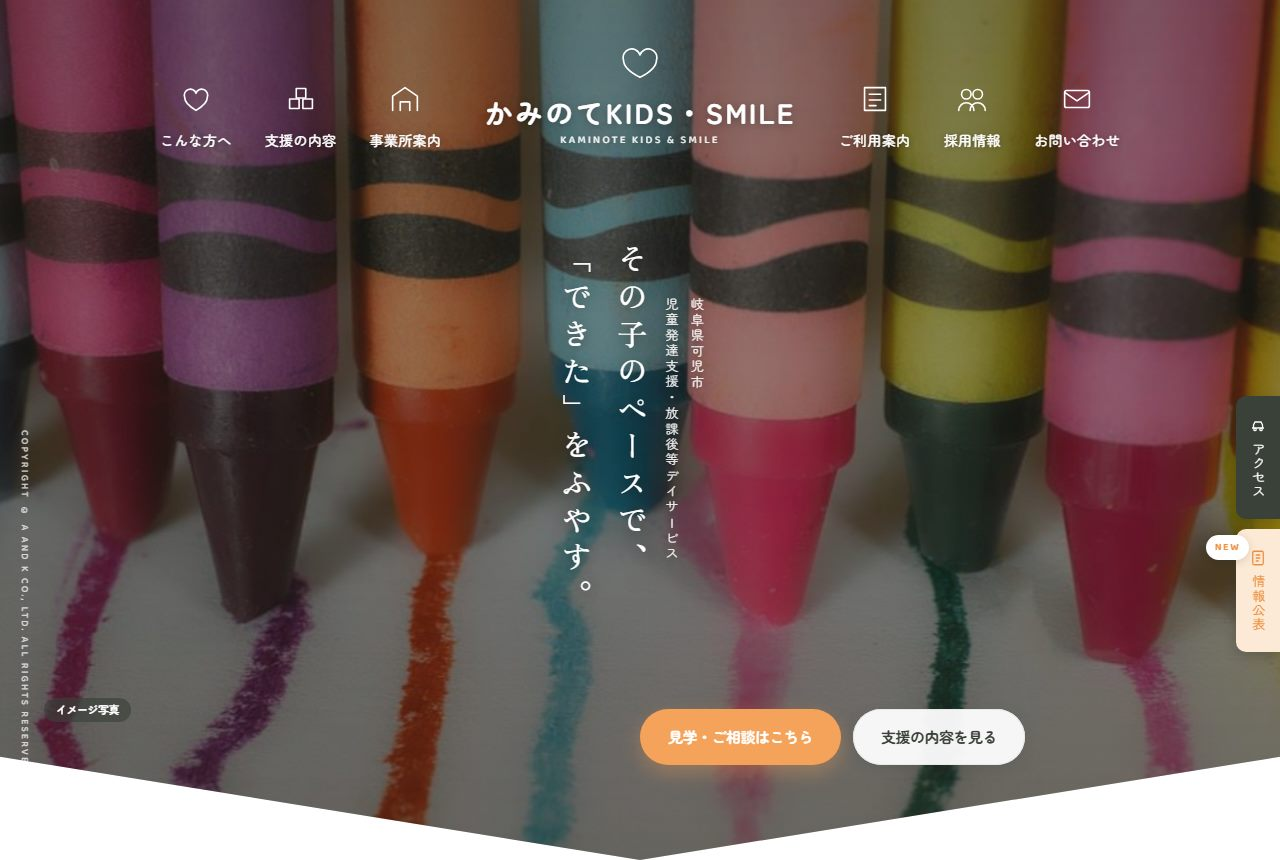
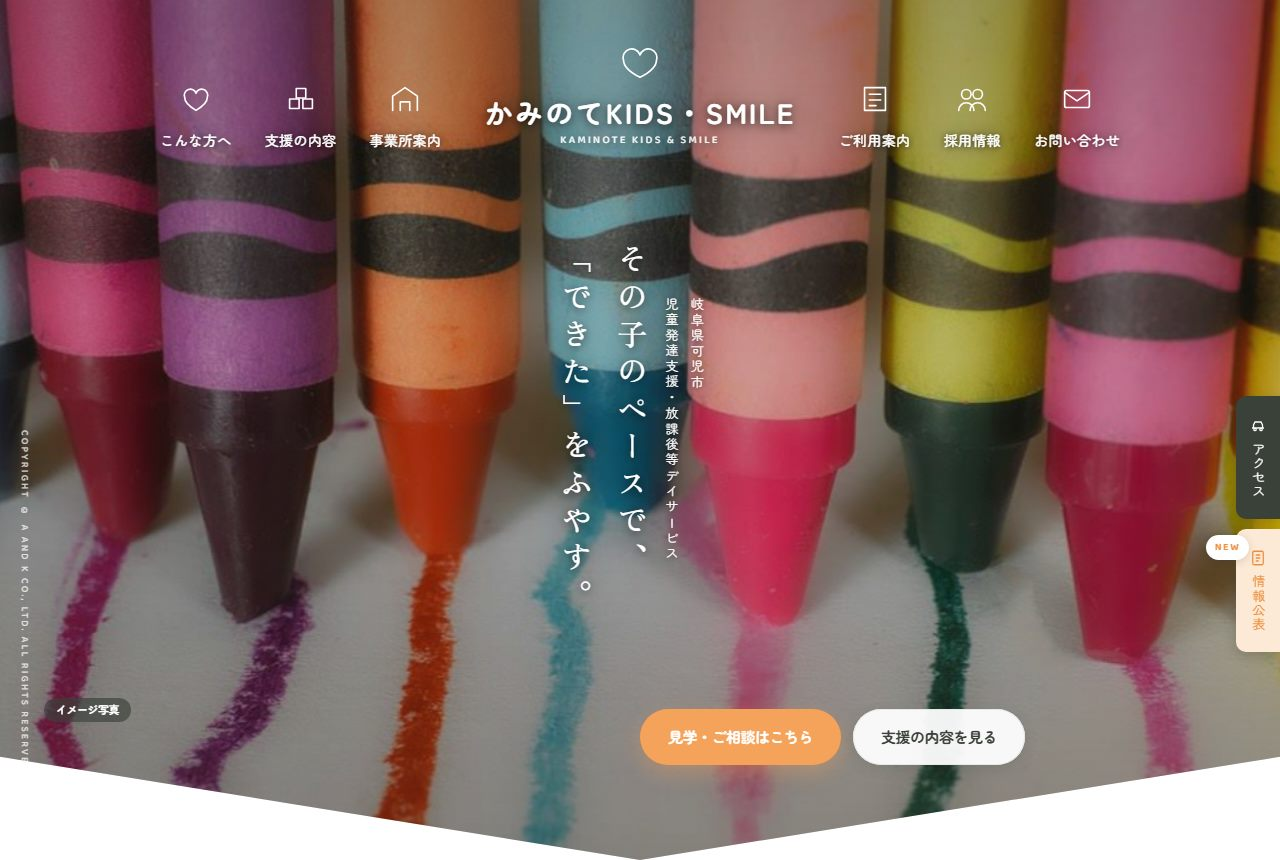
放課後等デイ案Cのキャプチャと説明を、明るくした状態に合わせる
かぶせを薄くして写真の色を残す作りになったので、
「深い色に沈め」を書き直し、キャプチャも撮り直した。

Claude-Session: https://claude.ai/code/session_019yv8kcPFY1QPYKKQptFxud

diff --git a/design.html b/design.html
@@ -670,7 +670,7 @@
         <a class="shot" href="https://k-matsumoto527.github.io/kaminote-day-design/plan-c.html" target="_blank" rel="noopener">
           <img src="img/preview-day-c.jpg" alt="放課後等デイサイト トップページ デザイン案C" width="1280" height="860" loading="lazy">
         </a>
-        <p class="mock-note">白いヘッダーを置かず、開いた瞬間は<strong>写真だけが画面いっぱい</strong>に広がる案です。事業所名を中央に、メニューを左右に振り分けました。写真は<strong>大きく寄せて</strong>深い色に沈め、事業所の言葉は白い文字の<strong>縦書き</strong>で置いています。<strong>3案のなかでいちばん写真が強く出て、落ち着いた雰囲気</strong>になります。保育園サイトの案Cと対になる作りです。そのぶん、よいお写真がそろっているかで印象が変わる案でもあります。</p>
+        <p class="mock-note">白いヘッダーを置かず、開いた瞬間は<strong>写真だけが画面いっぱい</strong>に広がる案です。事業所名を中央に、メニューを左右に振り分けました。写真は<strong>大きく寄せて</strong>クレヨンの色をそのまま見せ、事業所の言葉は白い文字の<strong>縦書き</strong>で置いています。<strong>3案のなかでいちばん写真が強く出る案</strong>です。保育園サイトの案Cと対になる作りです。そのぶん、よいお写真がそろっているかで印象が変わる案でもあります。</p>
         <a class="open-btn" href="https://k-matsumoto527.github.io/kaminote-day-design/plan-c.html" target="_blank" rel="noopener">実物を見る</a>
         <div class="open-url">https://k-matsumoto527.github.io/kaminote-day-design/plan-c.html</div>
       </div>

diff --git a/src/design-kaminote.html b/src/design-kaminote.html
@@ -647,7 +647,7 @@
         <a class="shot" href="https://k-matsumoto527.github.io/kaminote-day-design/plan-c.html" target="_blank" rel="noopener">
           <img src="img/preview-day-c.jpg" alt="放課後等デイサイト トップページ デザイン案C" width="1280" height="860" loading="lazy">
         </a>
-        <p class="mock-note">白いヘッダーを置かず、開いた瞬間は<strong>写真だけが画面いっぱい</strong>に広がる案です。事業所名を中央に、メニューを左右に振り分けました。写真は<strong>大きく寄せて</strong>深い色に沈め、事業所の言葉は白い文字の<strong>縦書き</strong>で置いています。<strong>3案のなかでいちばん写真が強く出て、落ち着いた雰囲気</strong>になります。保育園サイトの案Cと対になる作りです。そのぶん、よいお写真がそろっているかで印象が変わる案でもあります。</p>
+        <p class="mock-note">白いヘッダーを置かず、開いた瞬間は<strong>写真だけが画面いっぱい</strong>に広がる案です。事業所名を中央に、メニューを左右に振り分けました。写真は<strong>大きく寄せて</strong>クレヨンの色をそのまま見せ、事業所の言葉は白い文字の<strong>縦書き</strong>で置いています。<strong>3案のなかでいちばん写真が強く出る案</strong>です。保育園サイトの案Cと対になる作りです。そのぶん、よいお写真がそろっているかで印象が変わる案でもあります。</p>
         <a class="open-btn" href="https://k-matsumoto527.github.io/kaminote-day-design/plan-c.html" target="_blank" rel="noopener">実物を見る</a>
         <div class="open-url">https://k-matsumoto527.github.io/kaminote-day-design/plan-c.html</div>
       </div>
